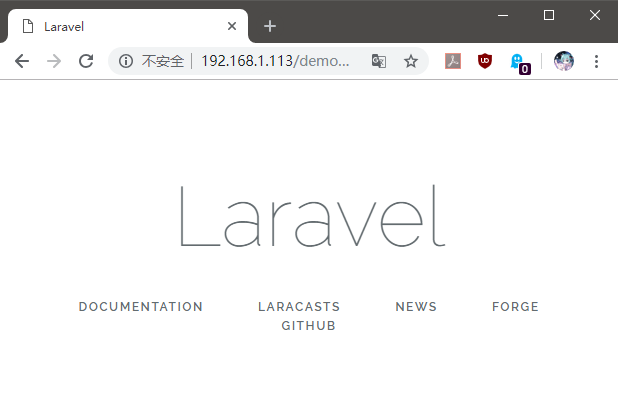
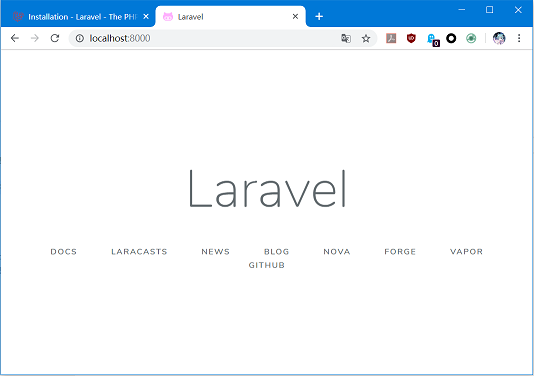
laravel

diff --git a/PHP网络应用开发/Laravel/01-Laravel开发环境搭建/01-Laravel开发环境搭建.md b/PHP网络应用开发/Laravel/01-Laravel开发环境搭建/01-Laravel开发环境搭建.md
@@ -1,20 +1,24 @@
 # Laravel开发环境搭建
 
-Laravel是一个时下非常流行的PHP开发框架，这个框架基于composer进行构建，设计吸取了ROR等框架的优点，在许多开发人员中评价都不错。当然，它的缺点也相对明显，Laravel的性能奇差，另一方面，它设计的实在是复杂，很多人认为Laravel这种重型框架失去了PHP这门语言的初衷。
+![](res/2.png)
+
+Laravel是一个时下非常流行的PHP开发框架，这个框架基于composer进行构建，设计吸取了ROR等框架的优点，在许多开发人员中评价都不错。当然，它的缺点也相对明显，Laravel的性能奇差，另一方面，它设计的实在是复杂，和原生PHP开发相差很大，很多人认为Laravel这种重型框架失去了PHP这门语言的初衷。
 
 无论如何，Laravel现已得到了广泛的使用，并且更新速度非常之快，这里我们就简单学习体验一下Laravel。
 
 Laravel官网：[https://laravel.com/](https://laravel.com/)
 
+注：Laravel版本更新非常快，本系列笔记刚开始写的时候版本还是`5.8`，但是学着学着主版本就到`6.0`了，而且该版本是长周期支持版，因此本系列笔记参考文档的版本为`6.0`。
+
 ## 环境搭建
 
-Laravel环境搭建非常复杂，而且坑比较多，PHP本身环境就比较难搞，而且composer也基本是我见过的最差的包管理器（LOGO还特别丑），因此这里也是尝试了半天才将初始工程运行起来。
+Laravel环境搭建比较复杂，而且PHP本身环境就比较难搞，composer也基本是我见过的最差的包管理器（LOGO还特别丑），因此这里也是尝试了半天才将初始工程运行起来。
 
 ### Windows开发环境搭建
 
-Laravel官网对PHP扩展的说明含糊不清，而且依赖的扩展随着Laravel版本升级可能还会变，我们按照官网工程搭建一步步来，遇到错误再找对应的办法就行了。
+Laravel官网对文档对PHP扩展要求进行了说明，但可能不全，我们按照官网工程搭建一步步来，遇到错误再找对应的办法就行了。
 
-我这里使用的是PHP7.1.29，开启了以下扩展：
+我这里使用的是PHP7.2.22，开启了以下扩展：
 
 ```ini
 extension=php_curl.dll
@@ -25,23 +29,99 @@ extension=php_openssl.dll
 extension=php_pdo_mysql.dll
 ```
 
-安装Laravel命令行工具：
-```
-composer global require laravel/installer
-```
-
 创建项目：
 ```
-laravel new demo01
+composer create-project laravel/laravel blog
 ```
+
+Laravel即使创建空项目也有很多依赖包，因此务必要添加`composer`的国内镜像，而且第一次创建项目将会非常漫长（还可能有某个包偶然下载失败的情况），请耐心等待。
 
 用PHP内置服务器启动项目：
 ```
 php artisan serve
 ```
 
+启动浏览器，访问调试服务器的默认端口`8000`即可。
+
+![](res/1.png)
+
 注：`artisan`是Laravel中一个PHP命令行工具。
 
-### Linux开发环境搭建
+## 项目目录结构
 
-（待补充）
+新建一个空项目后，我们可以看到其实已经创建了一大堆文件：
+
+![](res/3.png)
+
+```
+|_app 我们工程大部分代码都在这里编写，包括控制器、模型、自定义命令行工具等
+|_bootstrap Laravel框架自身启动相关的代码
+|_config 我们工程的配置目录，我们需要修改其中的配置使其符合我们的要求
+|_database 包括数据迁移代码、模型工厂类、种子数据等
+|_public 站点的静态数据
+|_resources 包括视图模板，以及未编译的资源如JavaScript、Less等
+|_routes 路由配置
+|_storage 站点的运行时文件目录，我们应用产生的一些文件也可以放置在这里
+|_tests 存放测试相关代码
+|_vendor 存储composer依赖
+```
+
+## Nginx部署
+
+Laravel官网文档给出了一份配置文件例子，修改下基本就可以使用了：
+
+```
+server {
+    listen 80;
+    server_name example.com;
+    root /example.com/public;
+
+    add_header X-Frame-Options "SAMEORIGIN";
+    add_header X-XSS-Protection "1; mode=block";
+    add_header X-Content-Type-Options "nosniff";
+
+    index index.html index.htm index.php;
+
+    charset utf-8;
+
+    location / {
+        try_files $uri $uri/ /index.php?$query_string;
+    }
+
+    location = /favicon.ico { access_log off; log_not_found off; }
+    location = /robots.txt  { access_log off; log_not_found off; }
+
+    error_page 404 /index.php;
+
+    location ~ \.php$ {
+        fastcgi_pass unix:/var/run/php/php7.2-fpm.sock;
+        fastcgi_index index.php;
+        fastcgi_param SCRIPT_FILENAME $realpath_root$fastcgi_script_name;
+        include fastcgi_params;
+    }
+
+    location ~ /\.(?!well-known).* {
+        deny all;
+    }
+}
+```
+
+除此之外，文档中也给出了一些优化Laravel性能的建议。
+
+composer加载器优化：
+
+```
+composer install --optimize-autoloader --no-dev
+```
+
+配置信息加载优化：
+
+```
+php artisan config:cache
+```
+
+路由加载优化：
+
+```
+php artisan route:cache
+```
